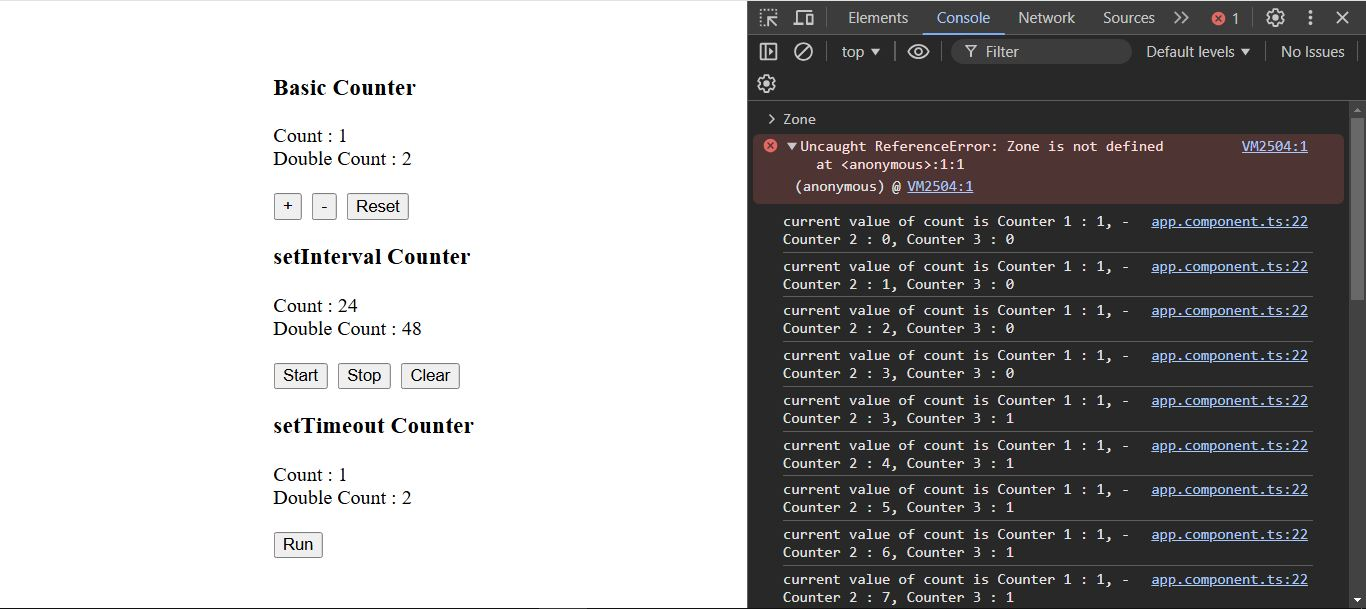
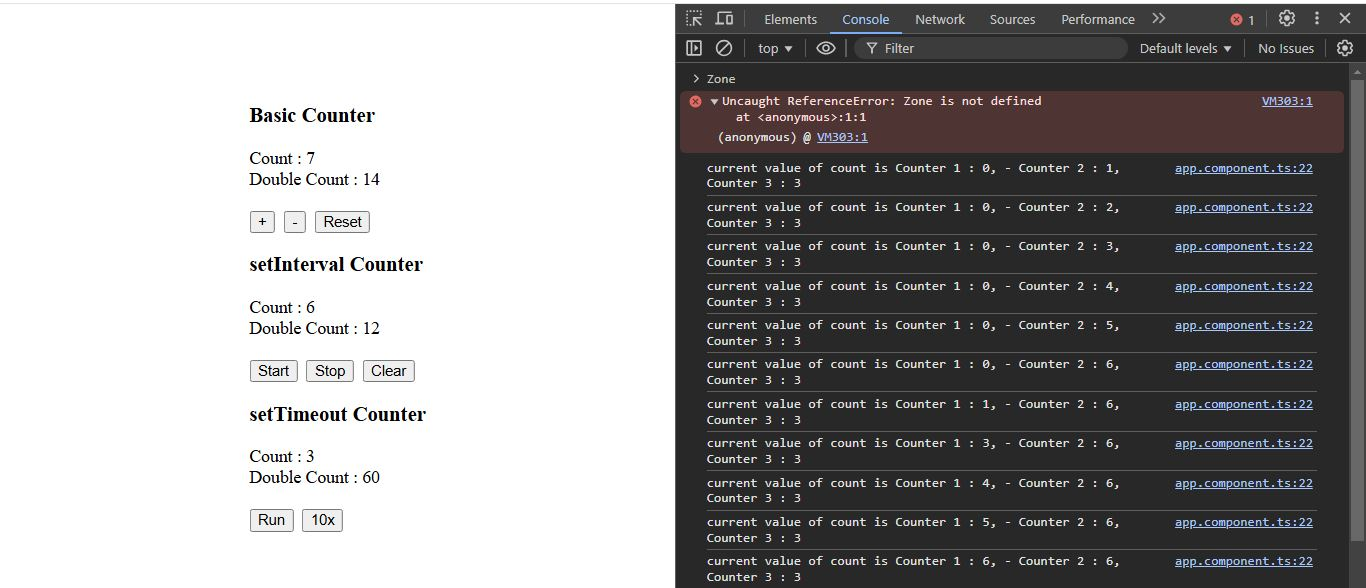
Zoneless ChangeDetection Counter

diff --git a/src/app/app.component.ts b/src/app/app.component.ts
@@ -1,4 +1,4 @@
-import { Component, computed, effect, signal, OnDestroy } from '@angular/core';
+import { Component, computed, effect, signal, OnDestroy, linkedSignal } from '@angular/core';
 
 @Component({
   selector: 'app-root',
@@ -14,7 +14,7 @@ export class AppComponent implements OnDestroy {
   count2 = signal(0);
   doubleCount2 = computed(() => this.count2() * 2)
   count3 = signal(0);
-  doubleCount3 = computed(() => this.count3() * 2)
+  doubleCount3 = linkedSignal(() => this.count3() * 2)
   intervalId !: any;
 
   constructor() {
@@ -57,6 +57,10 @@ export class AppComponent implements OnDestroy {
     setTimeout(() => {
       this.count3.update((c) => c + 1)
     }, 500);
+  }
+
+  TenX(): void {
+    this.doubleCount3.update((x) => x * 10)
   }
 
   ngOnDestroy(): void {

diff --git a/src/app/app.component.html b/src/app/app.component.html
@@ -30,7 +30,8 @@
         <br>
         <br>
         <div>
-            <button (click)="run()">Run</button>
+            <button (click)="run()">Run</button>&nbsp;
+            <button (click)="TenX()">10x</button>
         </div>
     </div>
 </div>
